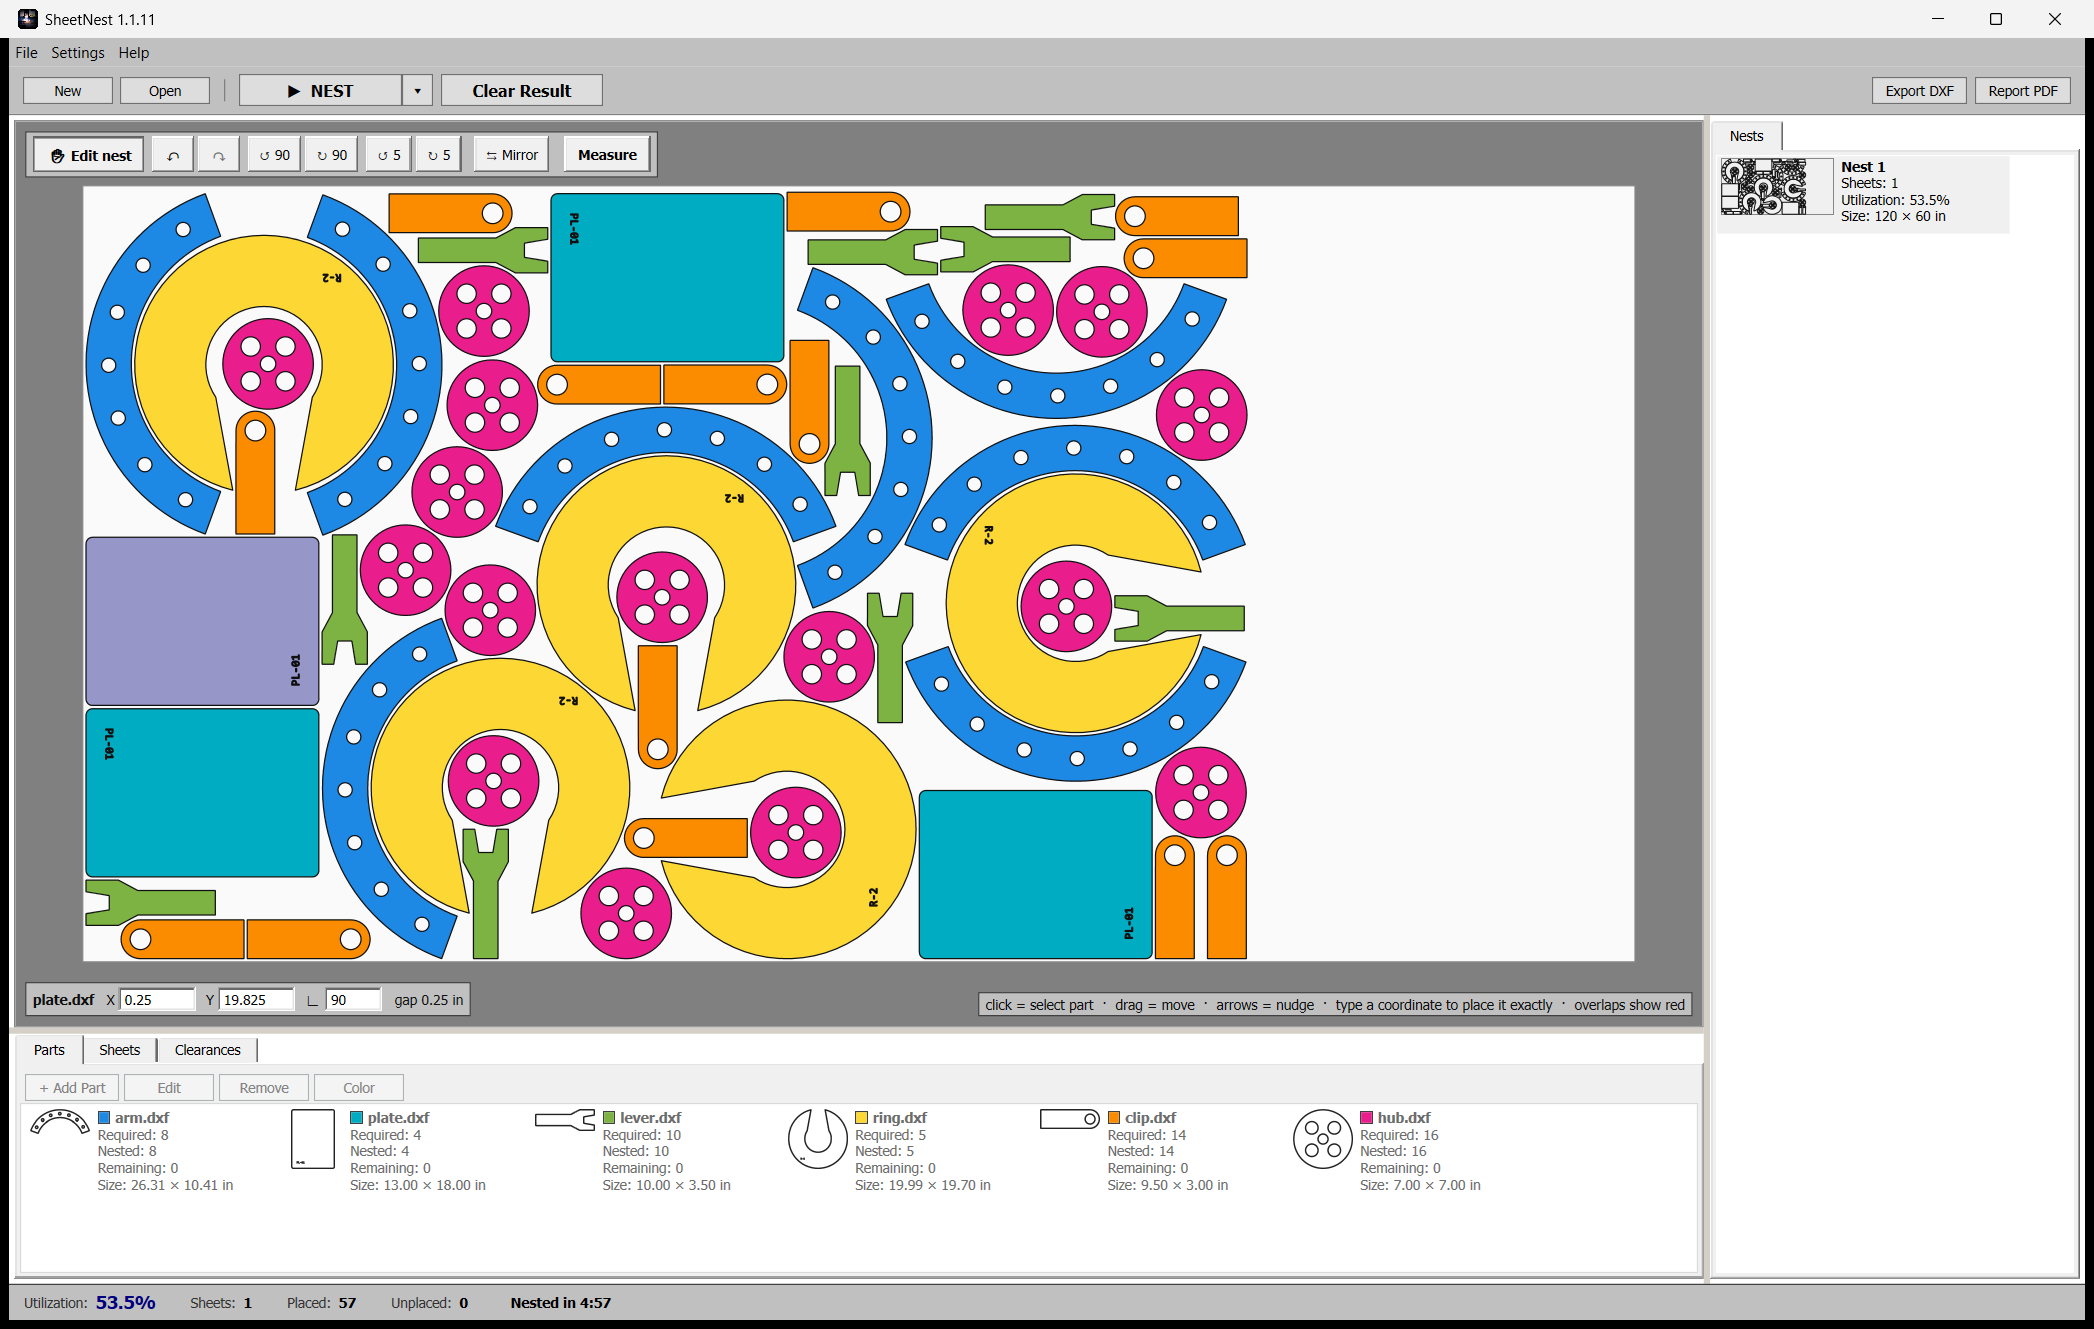
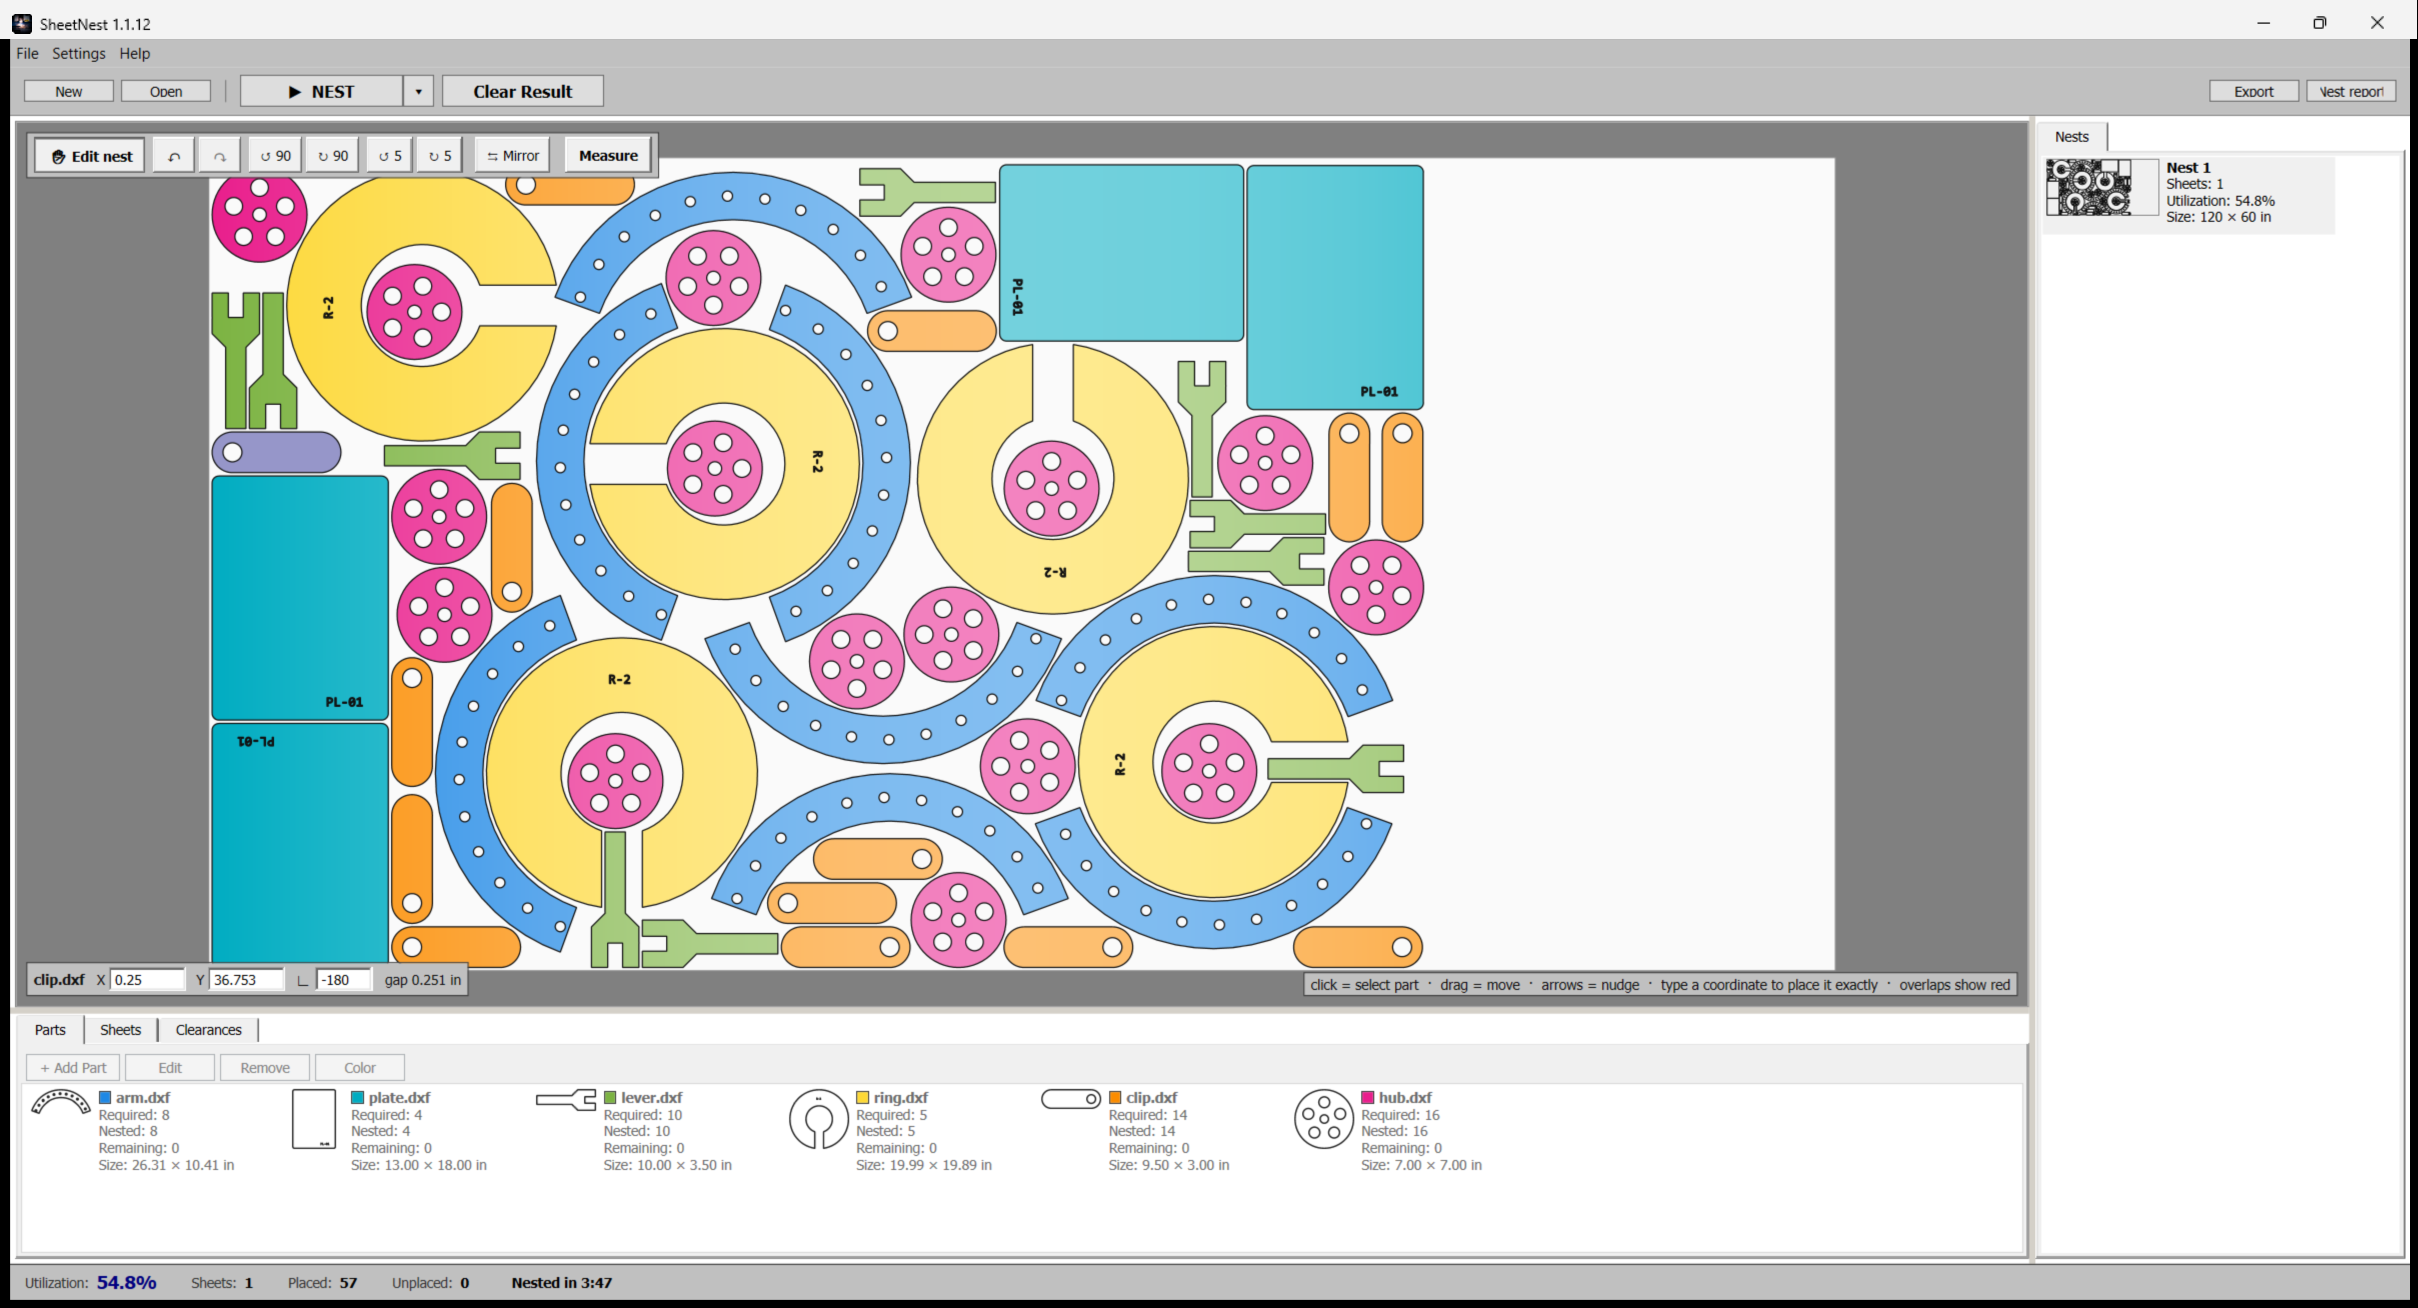
Show 1.1.12 in the README
New screenshots from 1.1.12 with the invented demo parts: the sheet light on
the parts and the Export and Nest report buttons. The language line says the
installer asks for it, and the colours line says what happens to a line that
does not close a shape.

diff --git a/README.md b/README.md
@@ -21,7 +21,7 @@ If you cut sheet metal, SheetNest helps you get the most parts out of every shee
 
 - **Fits the most parts on every sheet, automatically.** True-shape nesting packs your parts tightly by their real outline, so you waste less material and buy fewer sheets. Real 800-part jobs nest in seconds.
 - **Imports your DXF part drawings.** Drop in the DXF files you already have and start nesting.
-- **Your drawing's colours say what each line is for.** Anything drawn in yellow is engraved: it is never cut, and it travels with its part onto the sheet, on screen and in the exported DXF, turned and mirrored with it. Blue text names the part and, after a comma, says how many you need (`BRACKET,12`). Every other colour is cut. A drawing that holds several parts comes in as one row per part.
+- **Your drawing's colours say what each line is for.** Anything drawn in yellow is engraved: it is never cut, and it travels with its part onto the sheet, on screen and in the exported DXF, turned and mirrored with it. Blue text names the part and, after a comma, says how many you need (`BRACKET,12`). Every other colour is cut. A drawing that holds several parts comes in as one row per part. A line that does not close a shape is reported with how many there are, their layer, and how to fix the drawing.
 - **Imports 3D parts and flattens them for you.** Bring in a 3D sheet-metal part (STEP or IGES) and SheetNest unfolds it to a flat pattern that's ready to nest. The 3D unfolding engine is built in, runs offline, and needs nothing extra installed. You can set a per-part bend allowance (K-factor) and check the flat length with the built-in Measure tool.
 - **Tell it what you need.** Enter how many of each part you want (including mirrored copies), and list the sheet sizes and stock you actually have. Save your own sheet-size presets so they're one click next time.
 - **Nest with one click, then fine-tune by hand.** Let SheetNest lay everything out, then drag, rotate, nudge, and drop parts to contact yourself, with spacing kept safe and full undo/redo.
@@ -30,7 +30,7 @@ If you cut sheet metal, SheetNest helps you get the most parts out of every shee
 - **Exports cut-ready DXF.** One clean DXF per layout, parts only, so your CAM software has nothing extra to trip over. Identical sheets are grouped into a simple "cut N of this layout" plan.
 - **One-click PDF report.** One page per layout, the paper you take to the machine: the job's settings, how many sheets to cut, the parts on that sheet, and the sheet drawn to scale with every part numbered to its row. Black and white with parts as outlines, so it prints clearly on any shop printer and uses almost no toner.
 - **Works in inches or millimeters.** Switch units to match your shop, with sheets up to 6000 × 2000 mm.
-- **Speaks your language.** English and Spanish, following your Windows language or picked in Settings > Language. Translations come from people who use SheetNest, and adding one takes no programming: [help translate](Localization/README.md).
+- **Speaks your language.** English and Spanish. The installer asks which one SheetNest opens in, and Settings > Language changes it later. Translations come from people who use SheetNest, and adding one takes no programming: [help translate](Localization/README.md).
 - **Keeps your work safe.** Autosave and crash recovery, a backup copy on every save, a Recent Projects list, and double-click a project file to open it right where you left off. Each saved project remembers its own sheet stock and its finished nest.
 - **Free and open.** No account, no subscription, no license key. Open-source software you can just use.
 
